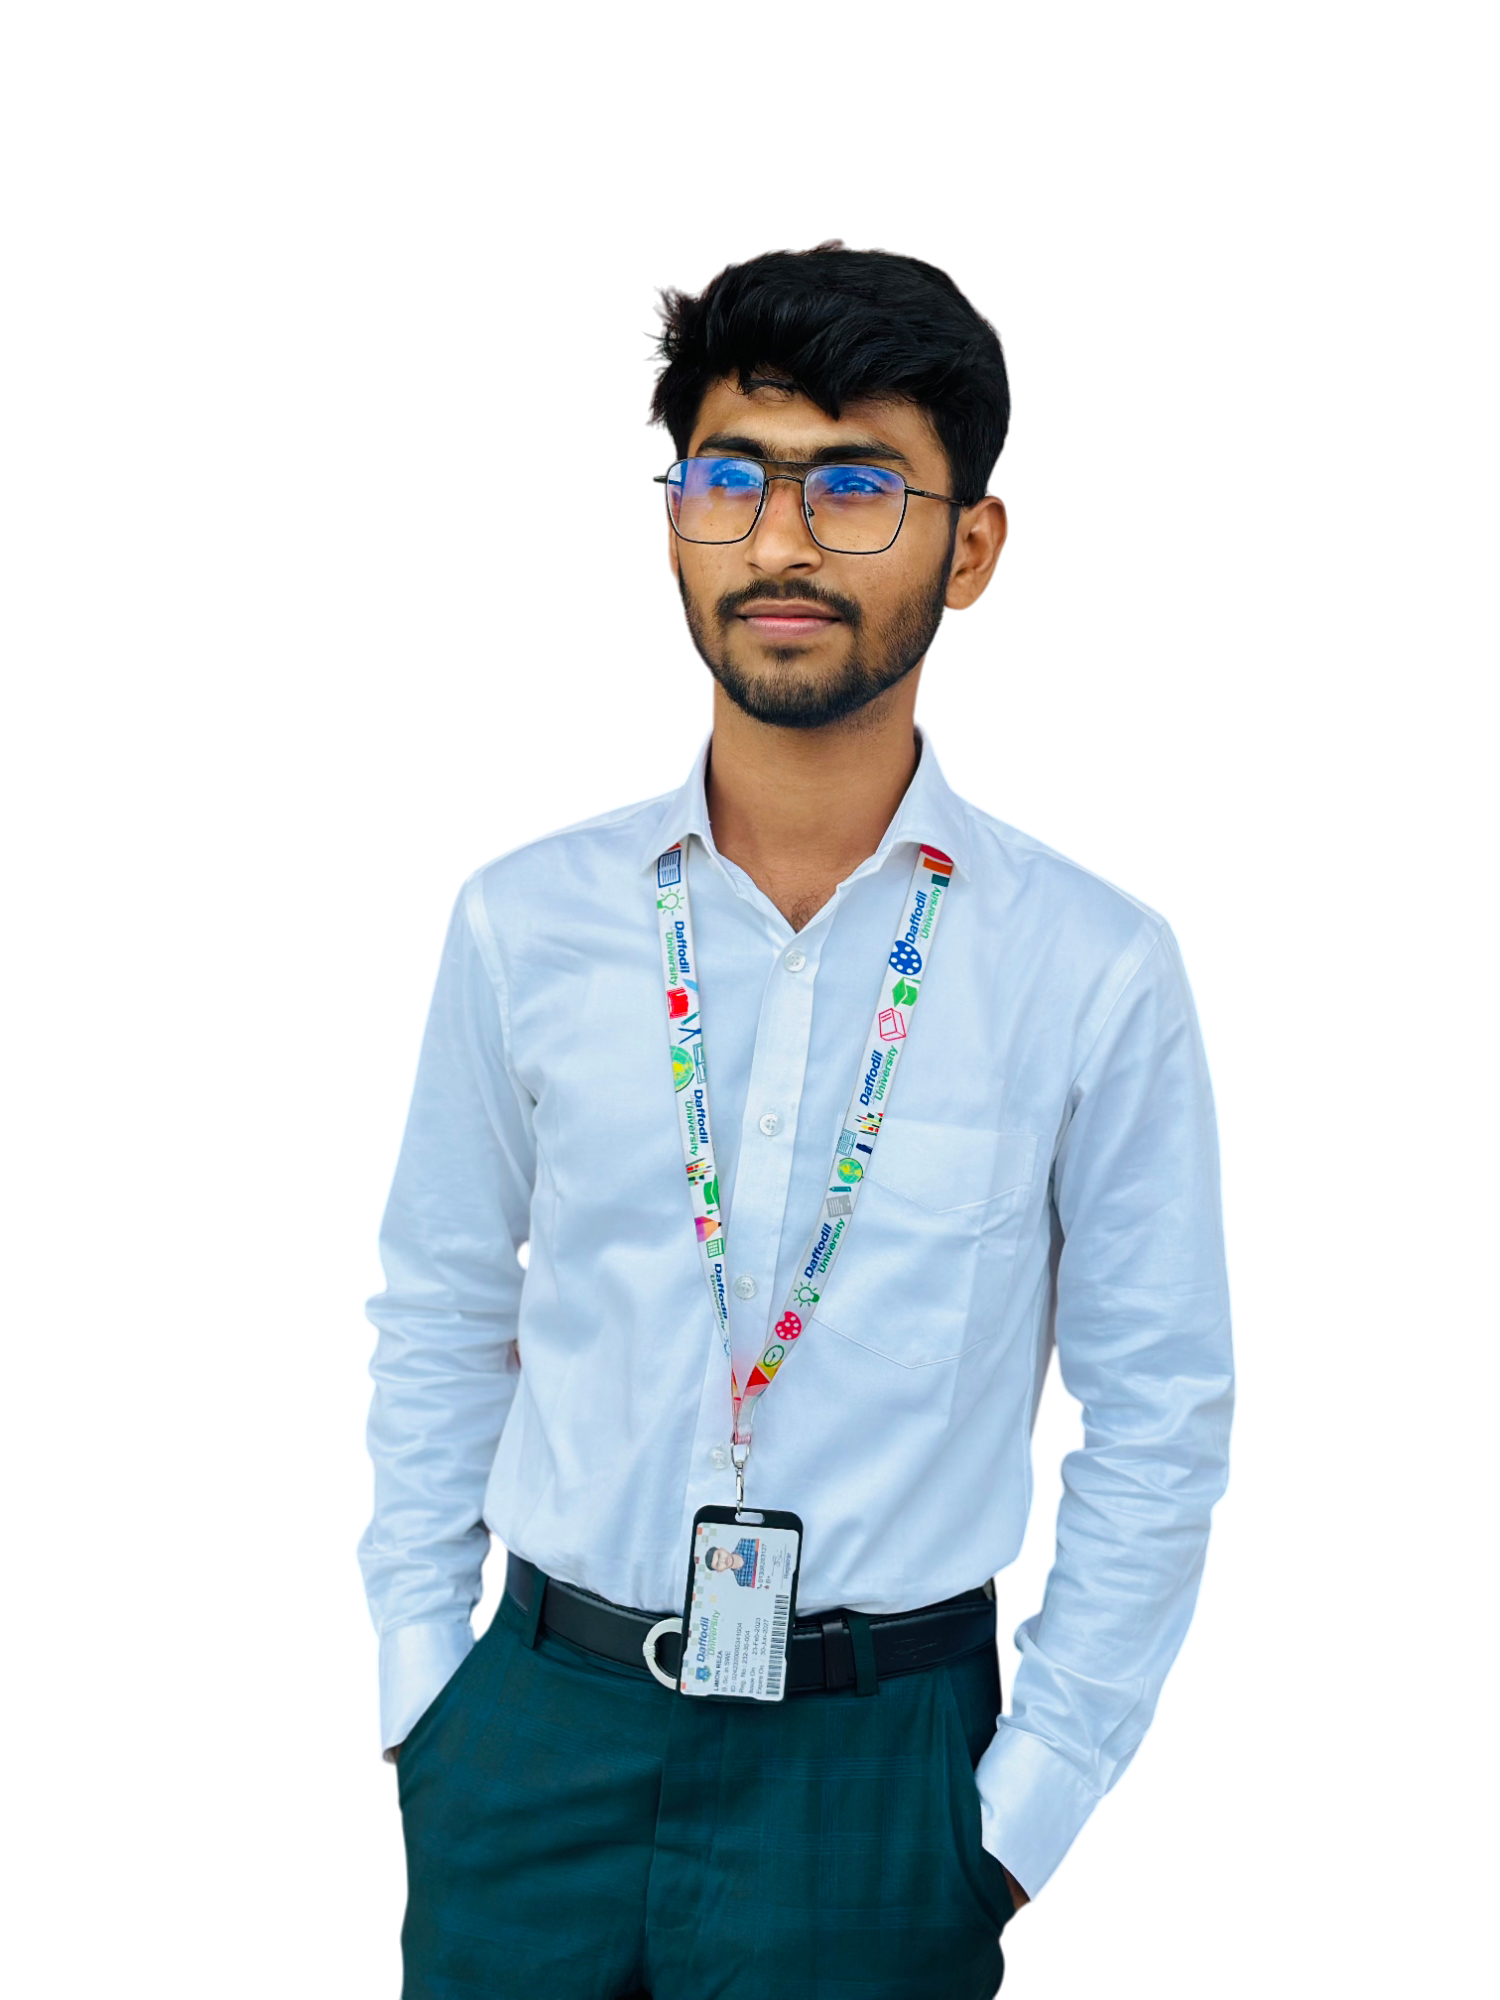
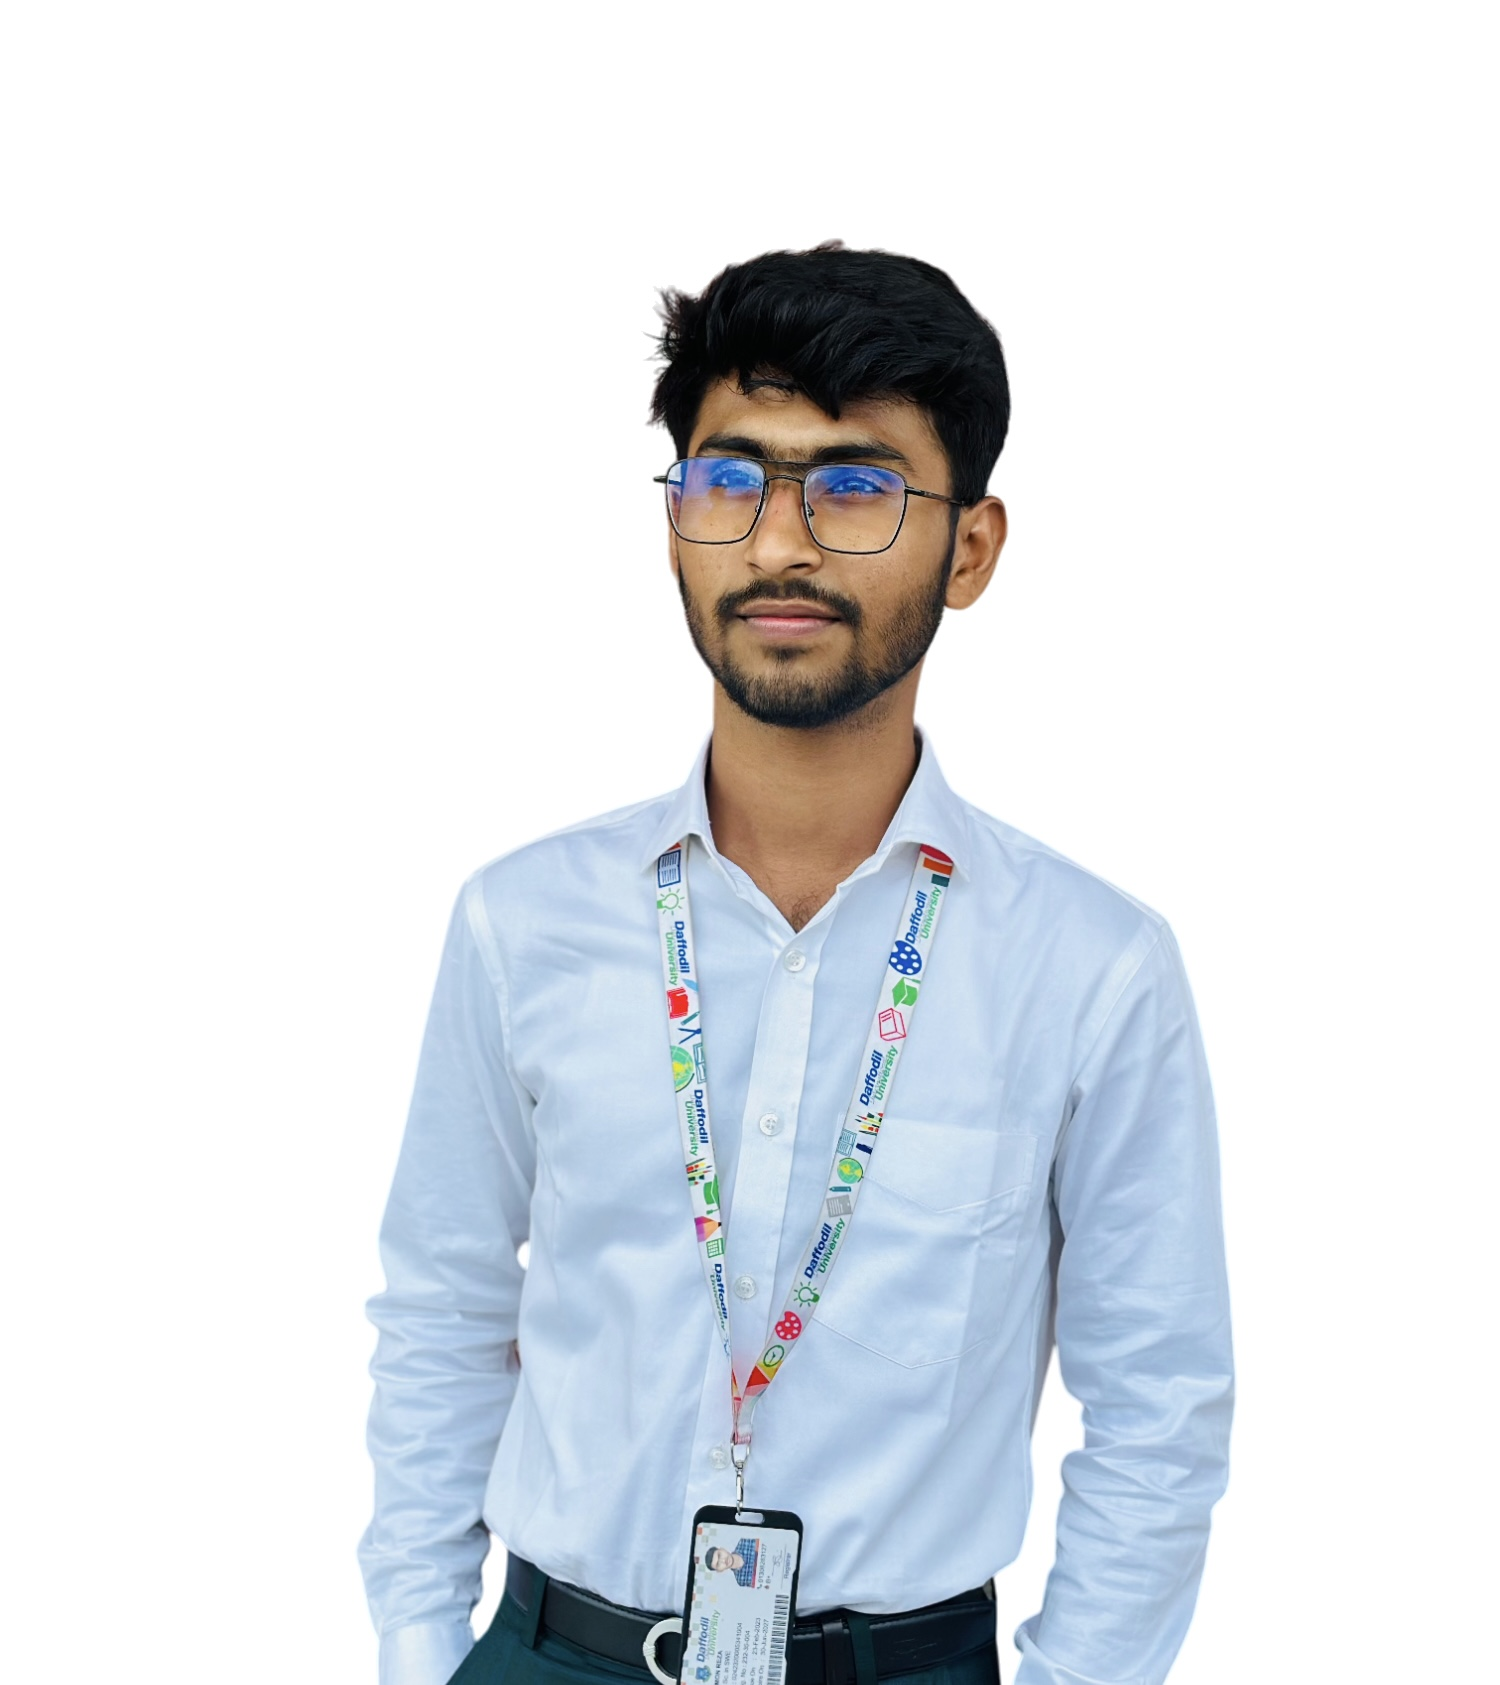
added more png images

Changed region(s): [[0.2147, 0.1234, 0.828, 1.0]]

diff --git a/index..html b/index..html
@@ -28,7 +28,7 @@
                 <button>Download CV</button>
                 <button>Contact</button>
             </div>
-            <img src="images/Photoroom-20250108_230506.png" alt="">
+            <img src="images/Photoroom.png" alt="">
         </div>
     </header>
     <main>
